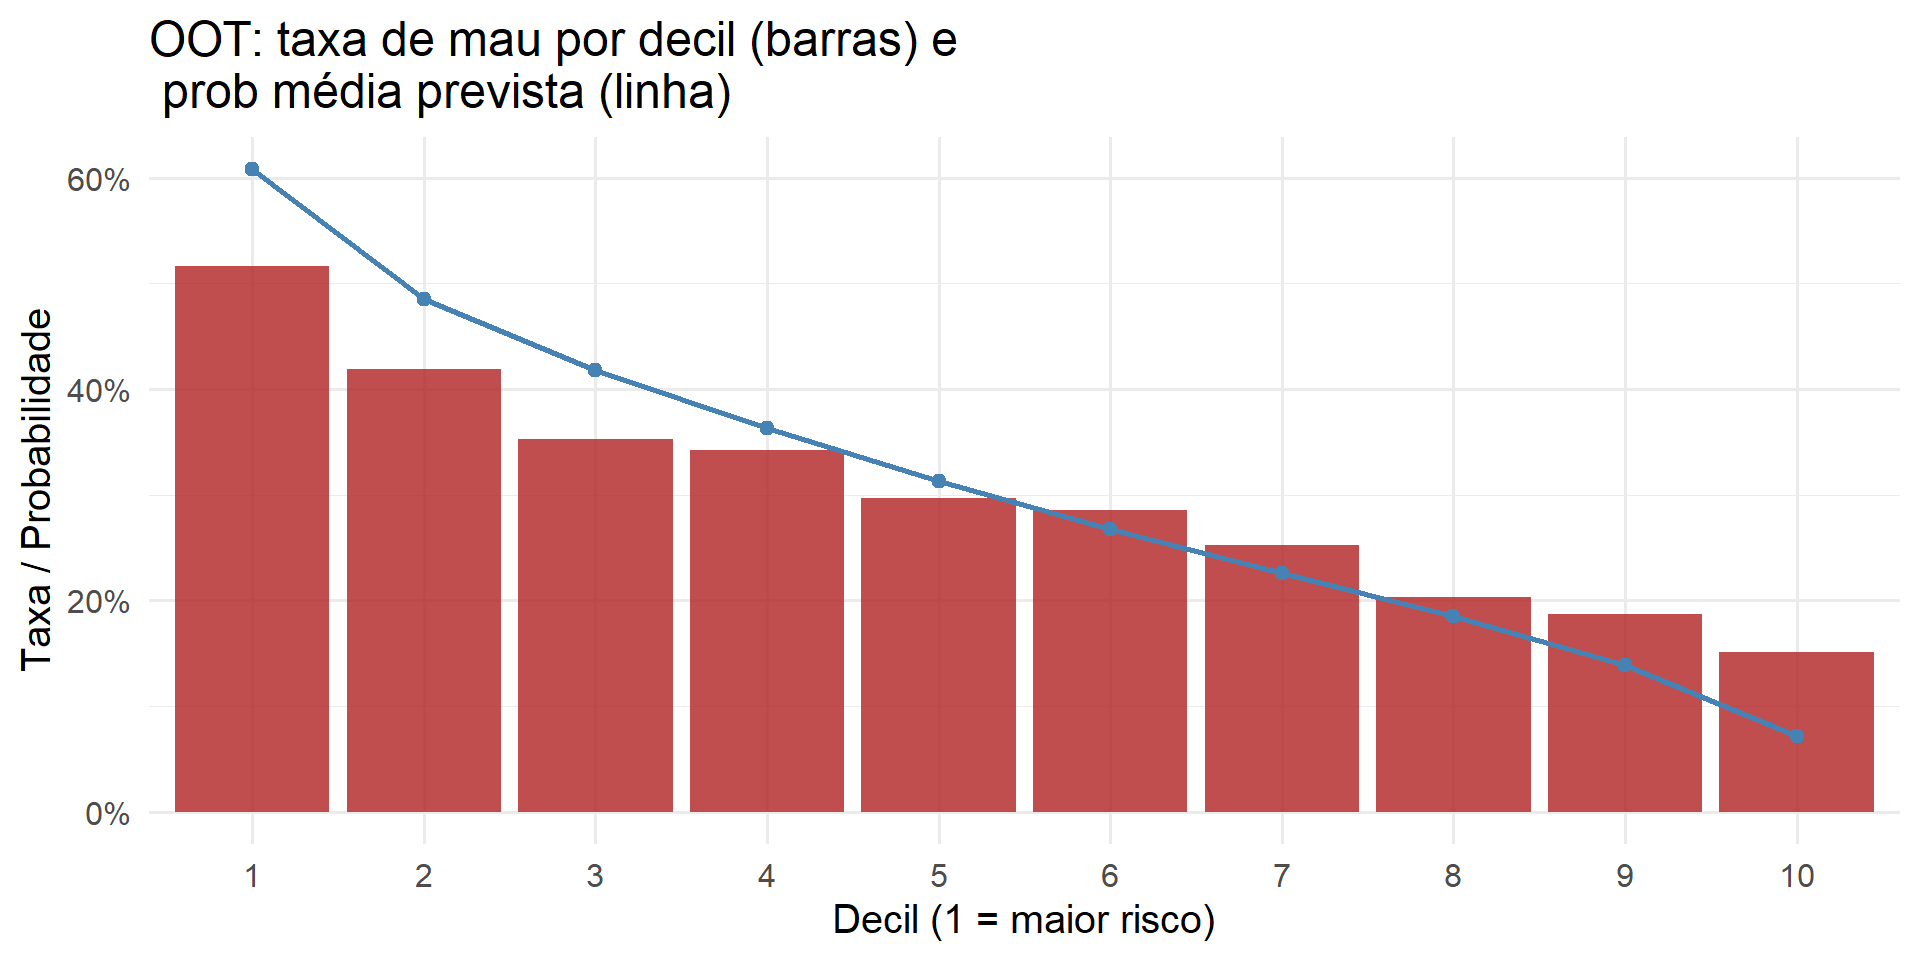
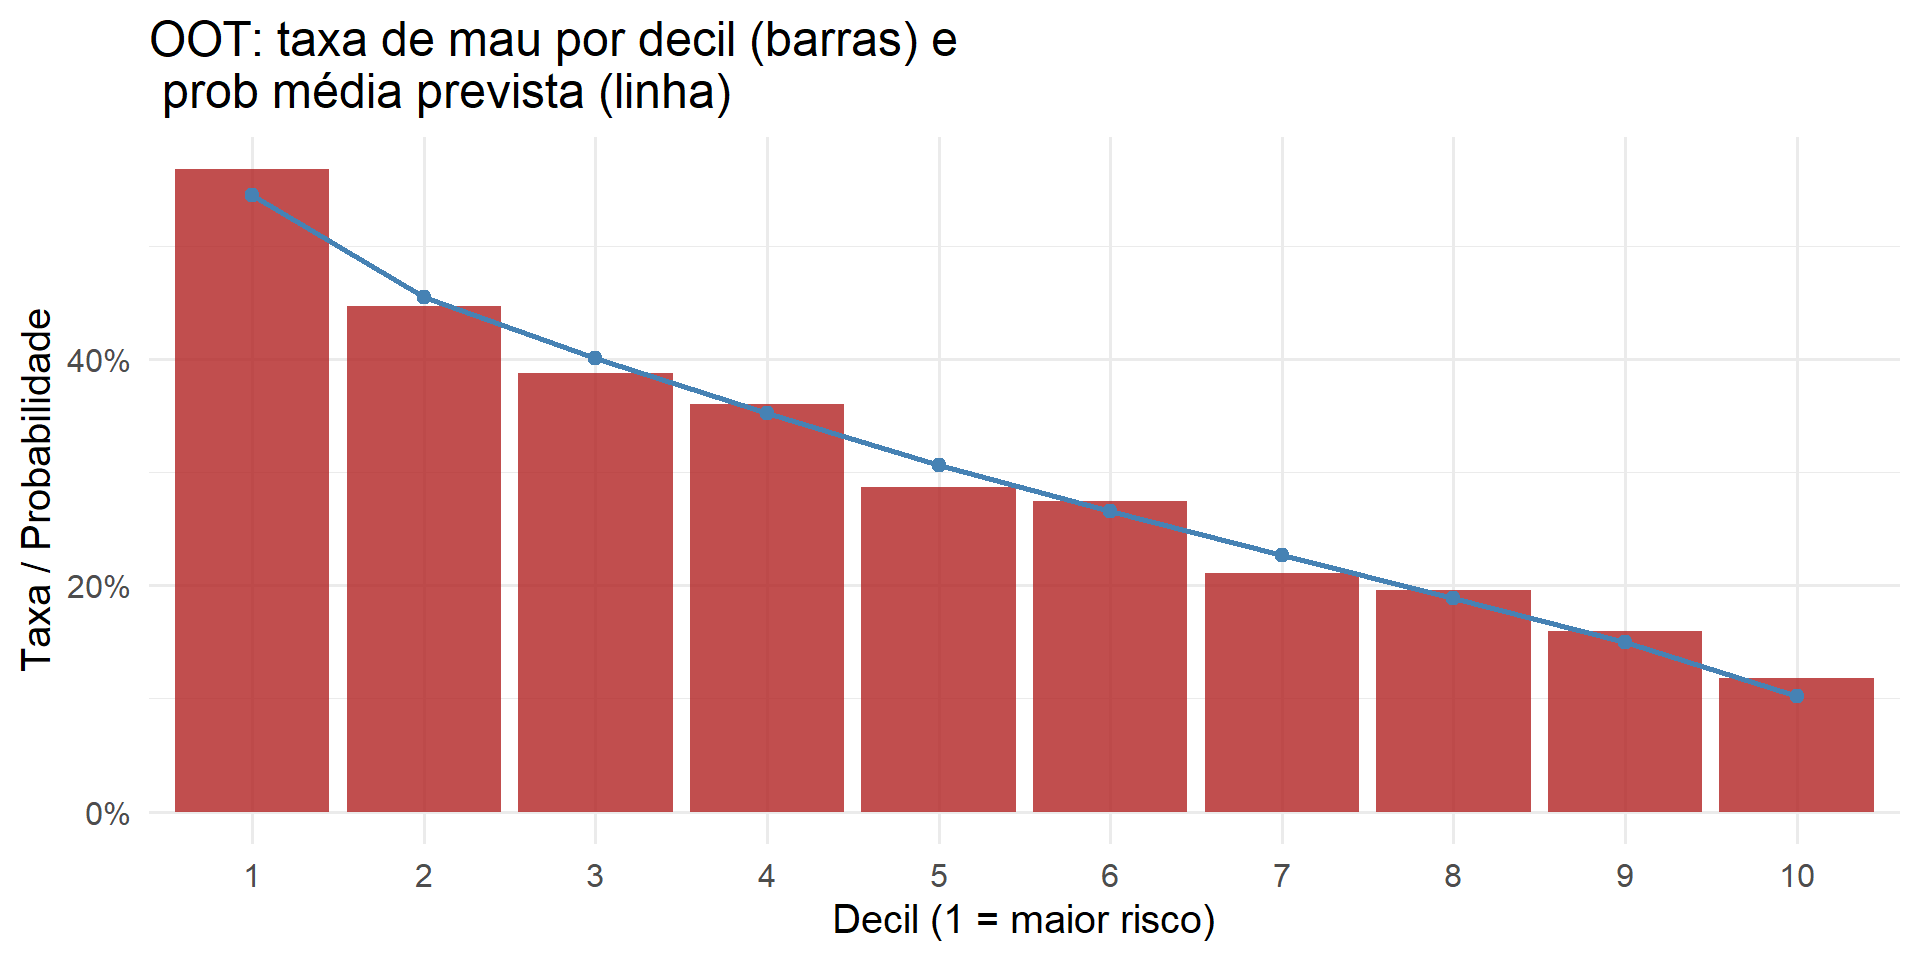
updates

diff --git a/slide/index.html b/slide/index.html
@@ -539,17 +539,11 @@ Magno T. F. Severino <br> magnotairone@gmail.com
 <!-- - `limite = renda * U(1.0,2.5)` — limite ligado à renda.   -->
 <!-- - `uso_limite = pmin(limite, Normal(0.4*limite, 0.2*limite))` — uso com ruído (capado em `limite`).   -->
 <!-- - `prob_atraso = plogis(-1.8 + (650 - score_interno)/200)` → `atraso ~ Bernoulli(prob_atraso)`. -->
-</section>
-<section id="entendimento-dos-dados-2" class="slide level2 smaller">
-<h2>2. Entendimento dos dados</h2>
-<p><strong>Checks &amp; features a construir</strong></p>
-<ul>
-<li>Agregados comportamentais por janela (3/6/12 meses): média uso_limite, tendência de gasto, contagem de atrasos anteriores.<br>
-</li>
-<li>Flags: mudança brusca de limite, aumento consecutivo de uso.<br>
-</li>
-<li>Variáveis temporais: mês/ano, distância desde <code>data_entrada</code>, sazonalidade.</li>
-</ul>
+<!-- ## 2. Entendimento dos dados {.smaller} -->
+<!-- **Checks & features a construir** -->
+<!-- - Agregados comportamentais por janela (3/6/12 meses): média uso_limite, tendência de gasto, contagem de atrasos anteriores.   -->
+<!-- - Flags: mudança brusca de limite, aumento consecutivo de uso.   -->
+<!-- - Variáveis temporais: mês/ano, distância desde `data_entrada`, sazonalidade. -->
 </section>
 <section id="preparação-dos-dados" class="slide level2 smaller">
 <h2>3. Preparação dos dados</h2>
@@ -665,81 +659,81 @@ Logo, conjuntos de dados devem ser separados garantindo que:</p>
 <tr class="odd">
 <td style="text-align: right;">1</td>
 <td style="text-align: right;">1445</td>
-<td style="text-align: right;">0.6081</td>
-<td style="text-align: right;">0.5170</td>
-<td style="text-align: right;">747</td>
+<td style="text-align: right;">0.5445</td>
+<td style="text-align: right;">0.5675</td>
+<td style="text-align: right;">820</td>
 <td style="text-align: right;">0.1000</td>
 </tr>
 <tr class="even">
 <td style="text-align: right;">2</td>
 <td style="text-align: right;">1445</td>
-<td style="text-align: right;">0.4856</td>
-<td style="text-align: right;">0.4194</td>
-<td style="text-align: right;">606</td>
+<td style="text-align: right;">0.4544</td>
+<td style="text-align: right;">0.4471</td>
+<td style="text-align: right;">646</td>
 <td style="text-align: right;">0.1000</td>
 </tr>
 <tr class="odd">
 <td style="text-align: right;">3</td>
 <td style="text-align: right;">1445</td>
-<td style="text-align: right;">0.4183</td>
-<td style="text-align: right;">0.3529</td>
-<td style="text-align: right;">510</td>
+<td style="text-align: right;">0.4007</td>
+<td style="text-align: right;">0.3875</td>
+<td style="text-align: right;">560</td>
 <td style="text-align: right;">0.1000</td>
 </tr>
 <tr class="even">
 <td style="text-align: right;">4</td>
 <td style="text-align: right;">1445</td>
-<td style="text-align: right;">0.3630</td>
-<td style="text-align: right;">0.3426</td>
-<td style="text-align: right;">495</td>
+<td style="text-align: right;">0.3525</td>
+<td style="text-align: right;">0.3599</td>
+<td style="text-align: right;">520</td>
 <td style="text-align: right;">0.1000</td>
 </tr>
 <tr class="odd">
 <td style="text-align: right;">5</td>
 <td style="text-align: right;">1445</td>
-<td style="text-align: right;">0.3126</td>
-<td style="text-align: right;">0.2969</td>
-<td style="text-align: right;">429</td>
+<td style="text-align: right;">0.3063</td>
+<td style="text-align: right;">0.2865</td>
+<td style="text-align: right;">414</td>
 <td style="text-align: right;">0.1000</td>
 </tr>
 <tr class="even">
 <td style="text-align: right;">6</td>
 <td style="text-align: right;">1445</td>
-<td style="text-align: right;">0.2678</td>
-<td style="text-align: right;">0.2858</td>
-<td style="text-align: right;">413</td>
+<td style="text-align: right;">0.2652</td>
+<td style="text-align: right;">0.2747</td>
+<td style="text-align: right;">397</td>
 <td style="text-align: right;">0.1000</td>
 </tr>
 <tr class="odd">
 <td style="text-align: right;">7</td>
 <td style="text-align: right;">1445</td>
-<td style="text-align: right;">0.2260</td>
-<td style="text-align: right;">0.2526</td>
-<td style="text-align: right;">365</td>
+<td style="text-align: right;">0.2267</td>
+<td style="text-align: right;">0.2111</td>
+<td style="text-align: right;">305</td>
 <td style="text-align: right;">0.1000</td>
 </tr>
 <tr class="even">
 <td style="text-align: right;">8</td>
 <td style="text-align: right;">1445</td>
-<td style="text-align: right;">0.1853</td>
-<td style="text-align: right;">0.2035</td>
-<td style="text-align: right;">294</td>
+<td style="text-align: right;">0.1887</td>
+<td style="text-align: right;">0.1958</td>
+<td style="text-align: right;">283</td>
 <td style="text-align: right;">0.1000</td>
 </tr>
 <tr class="odd">
 <td style="text-align: right;">9</td>
 <td style="text-align: right;">1444</td>
-<td style="text-align: right;">0.1385</td>
-<td style="text-align: right;">0.1870</td>
-<td style="text-align: right;">270</td>
+<td style="text-align: right;">0.1502</td>
+<td style="text-align: right;">0.1600</td>
+<td style="text-align: right;">231</td>
 <td style="text-align: right;">0.0999</td>
 </tr>
 <tr class="even">
 <td style="text-align: right;">10</td>
 <td style="text-align: right;">1444</td>
-<td style="text-align: right;">0.0713</td>
-<td style="text-align: right;">0.1510</td>
-<td style="text-align: right;">218</td>
+<td style="text-align: right;">0.1022</td>
+<td style="text-align: right;">0.1184</td>
+<td style="text-align: right;">171</td>
 <td style="text-align: right;">0.0999</td>
 </tr>
 </tbody>
